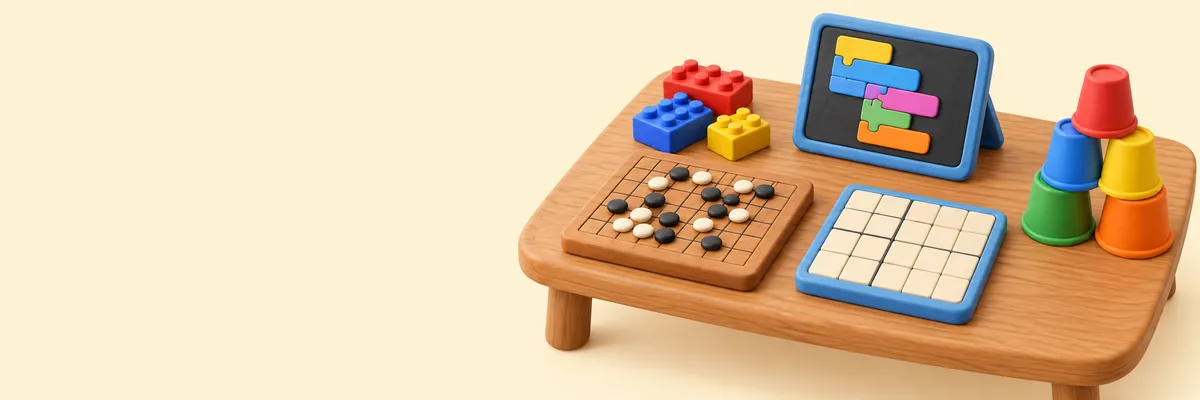
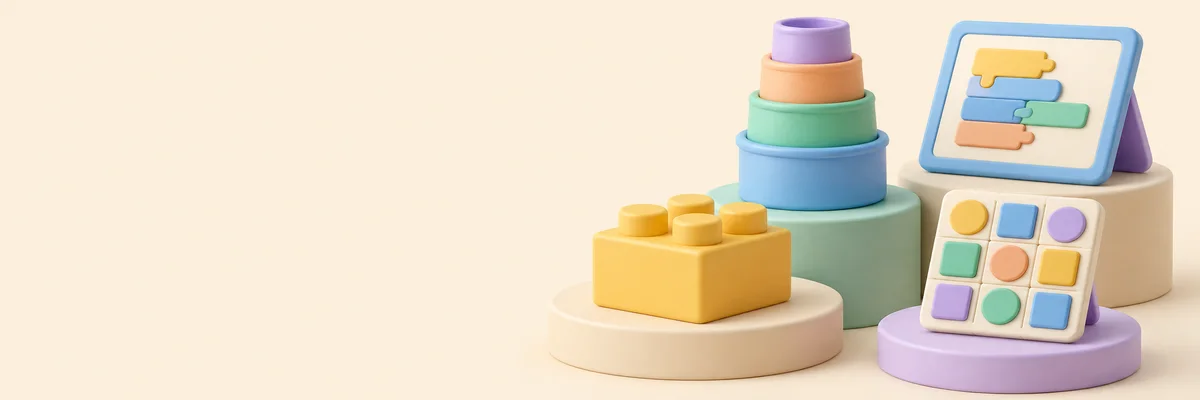
style(courses): single clay hero, emphasized hero type, badge lesson tiles, refined headers

diff --git a/components/features/courses/course-hub.module.css b/components/features/courses/course-hub.module.css
@@ -294,27 +294,6 @@
 .hub [data-course-theme='scratch'] { --tint: var(--tint-scratch); --ink: var(--ink-scratch); }
 .hub [data-course-theme='gomoku'] { --tint: var(--tint-gomoku); --ink: var(--ink-gomoku); }
 .hub [data-course-theme='other'] { --tint: var(--tint-other); --ink: var(--ink-other); }
-.courseIcon { flex-shrink: 0; width: 46px; height: 46px; border-radius: 14px; object-fit: cover; }
-.lessonHeader .lessonHeaderText { flex: 1; }
-.lessonSection .lessonRailWrap { margin-inline: 0; border-radius: 16px; background: var(--tint); padding-block: 12px 10px; }
-.lessonSection .lessonRail { padding-inline: 12px; scroll-padding-inline: 12px; }
-.lessonSection .lessonRailWrap::after { border-radius: 0 16px 16px 0; background: linear-gradient(to right, transparent, var(--tint)); bottom: 0; }
-:global(.dark) .lessonSection .lessonRailWrap::after { background: none; }
-.lessonSection .lessonThumb[data-kind='number'] { background: rgb(255 255 255 / .78); color: var(--ink); }
-.lessonSection .lessonThumb[data-kind='photo'] { box-shadow: none; }
-:global(.dark) .lessonSection .lessonThumb[data-kind='number'] { background: rgb(255 255 255 / .07); }
-.hero { position: relative; margin-top: 4px; overflow: hidden; border-radius: 16px; background: #FDF2D4; }
-.heroText { position: absolute; left: 16px; top: 50%; transform: translateY(-50%); max-width: 48%; z-index: 1; }
-.heroText h2 { margin: 0; font-family: inherit; font-size: 20px; line-height: 1.35; font-weight: 700; color: #3b2a12; }
-.heroText h2 span { display: block; white-space: nowrap; }
-.heroText p { margin: 6px 0 0; font-size: 14px; line-height: 1.45; color: #5d4a2e; }
-.heroImage { display: block; width: 100%; height: auto; aspect-ratio: 3 / 1; object-fit: cover; object-position: right center; min-height: 128px; }
-:global(.dark) .hero { background: #2e2315; }
-.heroImage[data-variant='dark'] { display: none; }
-:global(.dark) .heroImage[data-variant='light'] { display: none; }
-:global(.dark) .heroImage[data-variant='dark'] { display: block; }
-:global(.dark) .heroText h2 { color: #fbe9c4; }
-:global(.dark) .heroText p { color: #e6d6b4; }
 .heroContinue { display: flex; align-items: center; gap: 12px; margin-top: 4px; padding: 12px; border-radius: 16px; background: var(--tint); color: inherit; text-decoration: none; }
 .heroContinueThumb { position: relative; flex-shrink: 0; display: flex; align-items: center; justify-content: center; width: 72px; height: 72px; overflow: hidden; border-radius: 14px; background: #fff; color: var(--ink); }
 .heroContinueThumb .lessonNumber { font-size: 26px; }
@@ -331,3 +310,55 @@
 
 /* 课程页统一用站内无衬线字体（全局 h1–h3 默认是宋体 --font-heading） */
 .hub :is(h1, h2, h3, h4, strong, p, span, a) { font-family: var(--font-sans), sans-serif; }
+
+/* a3：精修——课时卡去掉浅色底板，色调只留在图标和角标；横幅一张图明暗共用 */
+.lessonSection { margin-top: 32px; }
+.hero + .lessonSection, .heroContinue + .lessonSection { margin-top: 28px; }
+.lessonHeader { gap: 12px; margin-bottom: 14px; }
+.lessonHeader .lessonHeaderText { flex: 1; }
+.courseIcon { flex-shrink: 0; width: 48px; height: 48px; border-radius: 15px; object-fit: cover; box-shadow: 0 0 0 1px rgb(0 0 0 / .04), 0 4px 10px -4px rgb(80 60 30 / .25); }
+.lessonHeaderText h2 { font-size: 17px; font-weight: 750; line-height: 1.35; letter-spacing: .005em; }
+.lessonHeaderText p { margin-top: 3px; font-size: 14px; color: hsl(var(--foreground) / .66); font-variant-numeric: tabular-nums; }
+.allLessons { min-height: 34px; padding: 0 8px 0 12px; gap: 2px; border: 1px solid hsl(var(--foreground) / .16); background: hsl(var(--background)); color: hsl(var(--foreground)); font-weight: 650; box-shadow: 0 1px 2px rgb(0 0 0 / .04); }
+.allLessons svg { color: hsl(var(--foreground) / .55); }
+:global(.dark) .allLessons { border-color: rgb(255 255 255 / .2); background: rgb(255 255 255 / .04); box-shadow: none; }
+
+.lessonSection .lessonRailWrap { margin-inline: -16px; }
+.lessonSection .lessonRail { gap: 12px; padding: 2px 16px 10px; scroll-padding-inline: 16px; }
+.lessonSection .lessonRailWrap::after { bottom: 0; width: 28px; background: linear-gradient(to right, transparent, hsl(var(--background))); }
+.lessonSection .lessonTile { flex: 0 0 124px; width: 124px; gap: 0; }
+.lessonSection .lessonThumb { width: 124px; height: 124px; margin-bottom: 8px; border-radius: 18px; background: #fff;
+  box-shadow: 0 0 0 1px rgb(60 45 20 / .05), 0 6px 16px -8px rgb(60 45 20 / .22); }
+.lessonSection .lessonThumb[data-kind='photo'] { background: #f7f5f1; }
+.lessonSection .lessonPhoto { padding: 6px; object-fit: contain; mix-blend-mode: multiply; }
+.lessonSection .lessonThumb[data-kind='icon'] { background: var(--tint); }
+.lessonIconArt { width: 100%; height: 100%; object-fit: cover; transform: scale(1.08); }
+.lessonBadge { position: absolute; top: 8px; left: 8px; z-index: 1; min-width: 30px; height: 24px; padding: 0 7px; display: inline-flex; align-items: center; justify-content: center;
+  border-radius: 999px; background: var(--tint); color: var(--ink); font-size: 13px; font-weight: 800; letter-spacing: .02em; font-variant-numeric: tabular-nums;
+  box-shadow: 0 0 0 1.5px #fff; }
+.lessonSection .lessonThumb[data-kind='icon'] ~ .lessonBadge { background: #fff; }
+.lessonSection .doneBadge { top: 8px; right: 8px; }
+.lessonSection .lessonTitle { padding-inline: 2px; font-size: 15px; font-weight: 700; line-height: 1.4; }
+:global(.dark) .lessonSection .lessonThumb { background: #f3f1ec; box-shadow: none; }
+:global(.dark) .lessonSection .lessonThumb[data-kind='icon'] { background: var(--tint); }
+:global(.dark) .lessonIconArt { filter: brightness(.92); }
+:global(.dark) .lessonBadge { background: #fff; color: #3a2f20; box-shadow: none; }
+:global(.dark) .lessonSection .lessonThumb[data-kind='icon'] ~ .lessonBadge { background: rgb(255 255 255 / .92); }
+
+.hero { position: relative; margin-top: 4px; overflow: hidden; border-radius: 22px; background: #FBEFDC; min-height: 150px; isolation: isolate; }
+.heroImage { position: absolute; inset: 0 0 0 auto; width: 64%; height: 100%; min-height: 0; aspect-ratio: auto; object-fit: cover; object-position: right center; z-index: 0;
+  -webkit-mask-image: linear-gradient(to right, transparent 0, #000 26%); mask-image: linear-gradient(to right, transparent 0, #000 26%); }
+.heroText { position: relative; left: auto; top: auto; transform: none; max-width: 52%; z-index: 1; padding: 22px 0 22px 18px; }
+.heroEyebrow { display: inline-flex; align-items: center; height: 26px; margin: 0 0 10px; padding: 0 10px; border-radius: 999px; background: rgb(255 255 255 / .75);
+  color: #7a4f08; font-size: 13px; font-weight: 700; letter-spacing: .04em; }
+.heroText h2 { margin: 0; font-size: 22px; line-height: 1.36; font-weight: 800; letter-spacing: .03em; color: #2f2414; }
+.heroLine { display: block; white-space: nowrap; }
+.heroEm { font-style: normal; color: #c2620c; background: linear-gradient(transparent 74%, rgb(246 190 70 / .5) 74%, rgb(246 190 70 / .5) 94%, transparent 94%); padding-inline: 1px; }
+.heroSub { margin: 8px 0 0; font-size: 14px; line-height: 1.5; color: #5d4a2e; }
+:global(.dark) .hero { background: linear-gradient(100deg, #241c12 0%, #2f2517 55%, #3a2e1d 100%); }
+:global(.dark) .heroImage { filter: brightness(.74) saturate(1.08);
+  -webkit-mask-image: linear-gradient(to right, transparent 0, #000 55%); mask-image: linear-gradient(to right, transparent 0, #000 55%); }
+:global(.dark) .heroEyebrow { background: rgb(255 255 255 / .1); color: #f5d38f; }
+:global(.dark) .heroText h2 { color: #fbefd6; }
+:global(.dark) .heroEm { color: #ffc56b; background: linear-gradient(transparent 76%, rgb(255 197 107 / .35) 76%, rgb(255 197 107 / .35) 92%, transparent 92%); }
+:global(.dark) .heroSub { color: #e6d6b4; }

diff --git a/components/features/courses/course-hub.tsx b/components/features/courses/course-hub.tsx
@@ -119,7 +119,7 @@ function CourseIcon({ theme }: { theme: CourseTheme }) {
   return <img src={`/courses/icons/${theme}.webp`} alt="" width={46} height={46} className={styles.courseIcon} onError={() => setFailed(true)} />
 }
 
-function LessonTileImage({ lesson }: { lesson: CoursePreviewLesson }) {
+function LessonTileImage({ lesson, theme }: { lesson: CoursePreviewLesson; theme: CourseTheme }) {
   const [load, setLoad] = useState({ attempt: 0, failed: false })
   if (lesson.image_url && !load.failed) {
     const { attempt } = load
@@ -134,19 +134,22 @@ function LessonTileImage({ lesson }: { lesson: CoursePreviewLesson }) {
     )
   }
   return (
-    <span className={styles.lessonThumb} data-kind="number">
-      <span className={styles.lessonNumber}>{String(lesson.number).padStart(2, '0')}</span>
+    <span className={styles.lessonThumb} data-kind="icon">
+      {theme !== 'other' ? (
+        // eslint-disable-next-line @next/next/no-img-element
+        <img src={`/courses/icons/${theme}.webp`} alt="" width={64} height={64} className={styles.lessonIconArt} />
+      ) : null}
     </span>
   )
 }
 
-function LessonTile({ course, lesson }: { course: CourseListItem; lesson: CoursePreviewLesson }) {
+function LessonTile({ course, lesson, theme }: { course: CourseListItem; lesson: CoursePreviewLesson; theme: CourseTheme }) {
   return (
     <Link href={`/courses/${course.id}/lessons/${lesson.id}`} prefetch={false} className={styles.lessonTile}
       aria-label={`第${lesson.number}课 ${lesson.title}${lesson.is_completed ? '（已完成）' : ''}`} data-lesson-id={lesson.id}>
-      <LessonTileImage lesson={lesson} />
+      <LessonTileImage lesson={lesson} theme={theme} />
+      <span className={styles.lessonBadge} aria-hidden="true">{String(lesson.number).padStart(2, '0')}</span>
       {lesson.is_completed ? <span className={styles.doneBadge} aria-hidden="true"><Check size={14} strokeWidth={3} /></span> : null}
-      <span className={styles.lessonNo}>第{lesson.number}课</span>
       <strong className={styles.lessonTitle}>{lesson.title}</strong>
     </Link>
   )
@@ -167,13 +170,13 @@ function CourseLessonSection({ course }: { course: CourseListItem }) {
         </div>
         <Link href={`/courses/${course.id}`} prefetch={false} className={styles.allLessons}
           aria-label={`${course.title}：全部 ${course.lesson_count} 课`}>
-          全部 {course.lesson_count} 课<ChevronRight size={16} aria-hidden="true" />
+          全部 {course.lesson_count} 课<ChevronRight size={16} strokeWidth={2.4} aria-hidden="true" />
         </Link>
       </div>
       {lessons.length > 0 ? (
         <div className={styles.lessonRailWrap}>
           <div className={styles.lessonRail}>
-            {lessons.map((lesson) => <LessonTile key={lesson.id} course={course} lesson={lesson} />)}
+            {lessons.map((lesson) => <LessonTile key={lesson.id} course={course} lesson={lesson} theme={theme} />)}
           </div>
         </div>
       ) : <p className={styles.lessonEmpty}>课时准备中</p>}
@@ -182,10 +185,25 @@ function CourseLessonSection({ course }: { course: CourseListItem }) {
 }
 
 /** 顶部横幅文案（占位，待定稿后替换；subtitle 留空则不显示） */
-export const HERO_COPY = { title: '坚持一小步，进步一大截', subtitle: '' }
+export const HERO_COPY = { title: '坚持一小步，进步一大截', subtitle: '', emphasis: ['一小步', '一大截'] }
+
+/** 把标题按逗号分行，并把重点词包成高亮 */
+function HeroTitle({ text, emphasis }: { text: string; emphasis: string[] }) {
+  const pattern = new RegExp(`(${emphasis.join('|')})`)
+  return (
+    <>
+      {text.split(/(?<=，)/).map((line) => (
+        <span key={line} className={styles.heroLine}>
+          {line.split(pattern).filter(Boolean).map((part, i) => emphasis.includes(part)
+            ? <em key={i} className={styles.heroEm}>{part}</em> : <span key={i}>{part}</span>)}
+        </span>
+      ))}
+    </>
+  )
+}
 
 /** 顶部：登录在学显示「继续上次的课」，否则显示插画横幅 */
-function MobileCoursesHero({ continueCourse }: { continueCourse?: CourseListItem }) {
+function MobileCoursesHero({ continueCourse, courseCount }: { continueCourse?: CourseListItem; courseCount: number }) {
   const next = continueCourse?.next_lesson
   if (continueCourse && next) {
     const theme = getCourseTheme(continueCourse)
@@ -210,16 +228,13 @@ function MobileCoursesHero({ continueCourse }: { continueCourse?: CourseListItem
   }
   return (
     <section className={styles.hero} aria-labelledby="courses-hero-heading">
+      {/* eslint-disable-next-line @next/next/no-img-element */}
+      <img src="/courses/hero.webp" alt="" className={styles.heroImage} width={1200} height={400} />
       <div className={styles.heroText}>
-        <h2 id="courses-hero-heading">
-          {HERO_COPY.title.split(/(?<=，)/).map((line) => <span key={line}>{line}</span>)}
-        </h2>
-        {HERO_COPY.subtitle ? <p>{HERO_COPY.subtitle}</p> : null}
+        <p className={styles.heroEyebrow}>技能课程 · {courseCount} 门</p>
+        <h2 id="courses-hero-heading" aria-label={HERO_COPY.title}><HeroTitle text={HERO_COPY.title} emphasis={HERO_COPY.emphasis} /></h2>
+        {HERO_COPY.subtitle ? <p className={styles.heroSub}>{HERO_COPY.subtitle}</p> : null}
       </div>
-      {/* eslint-disable-next-line @next/next/no-img-element */}
-      <img src="/courses/hero.webp" alt="" className={styles.heroImage} data-variant="light" width={1200} height={400} />
-      {/* eslint-disable-next-line @next/next/no-img-element */}
-      <img src="/courses/hero-dark.webp" alt="" className={styles.heroImage} data-variant="dark" width={1200} height={400} />
     </section>
   )
 }
@@ -269,7 +284,7 @@ function MobileCourseHub({ courses, visible }: { courses: CourseListItem[]; visi
     <div className={styles.hub} data-course-hub data-mobile-courses>
       {courses.length > 0 ? (
         <>
-          <MobileCoursesHero continueCourse={continueCourse} />
+          <MobileCoursesHero continueCourse={continueCourse} courseCount={courses.length} />
           {ordered.map((course) => <CourseLessonSection key={course.id} course={course} />)}
         </>
       ) : (

diff --git a/components/features/courses/course-hub-mobile.test.tsx b/components/features/courses/course-hub-mobile.test.tsx
@@ -65,7 +65,8 @@ describe('手机端课程页：每门课露出课时', () => {
 
   it('未登录显示横幅标题', () => {
     render(<CourseHub courses={[makeCourse({ id: 3, title: '五子棋博弈论入门', tags: ['五子棋'], preview_lessons: [lesson(1, 1, '认识棋盘')] })]} />)
-    expect(screen.getByRole('heading', { name: /坚持一小步/ }).textContent).toBe('坚持一小步，进步一大截')
+    expect(screen.getByRole('heading', { name: '坚持一小步，进步一大截' }).textContent).toBe('坚持一小步，进步一大截')
+    expect(screen.getByText('技能课程 · 1 门')).toBeTruthy()
     expect(screen.queryByRole('link', { name: /^继续上次的课/ })).toBeNull()
   })
 })
